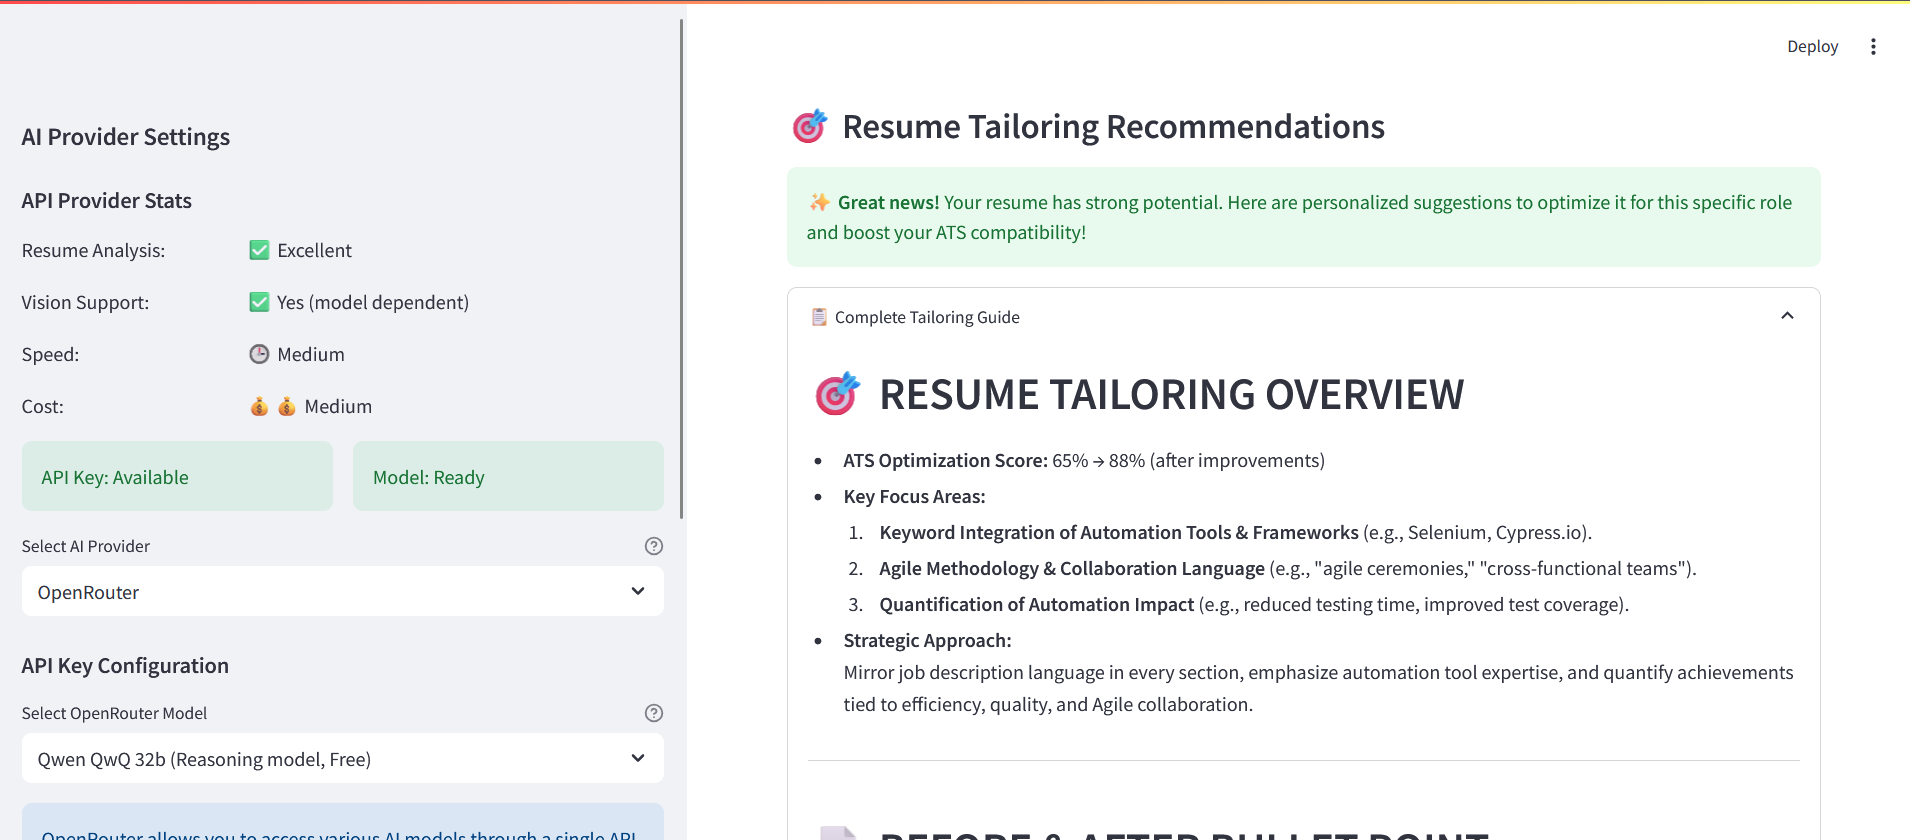
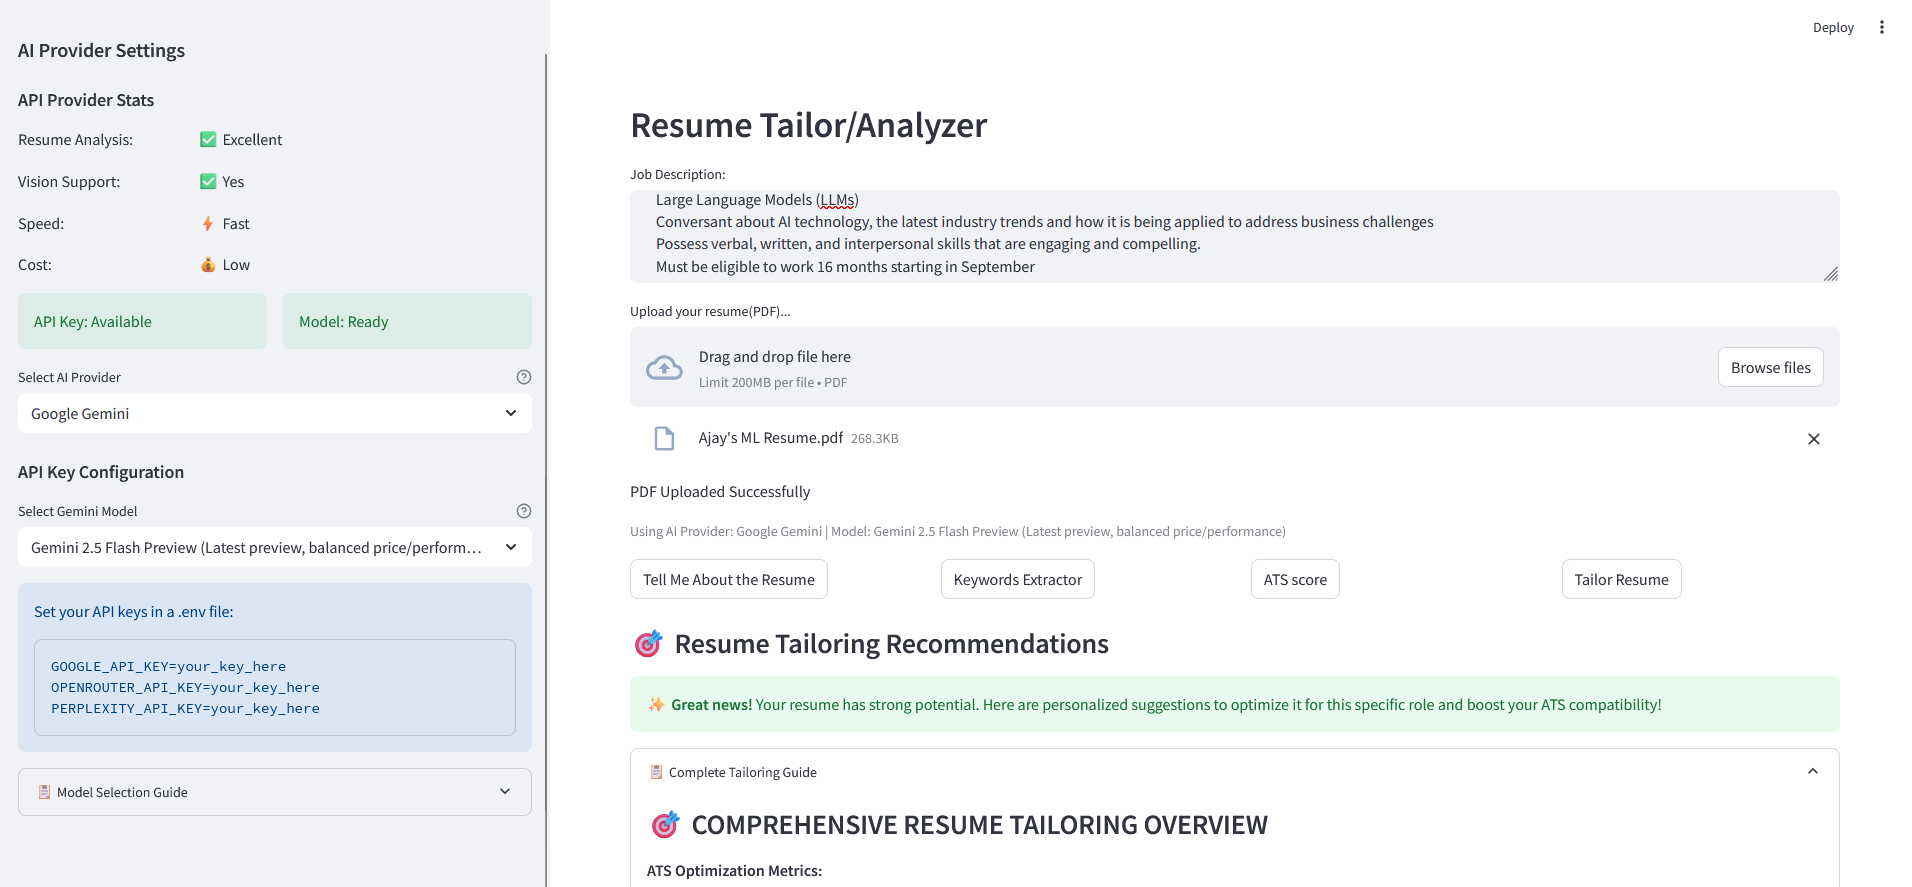
update readme.md

diff --git a/app.py b/app.py
@@ -5,12 +5,12 @@ import streamlit as st
 from models import (AIModelFactory, GeminiModel, OpenRouterModel,
                     PerplexityModel)
 from prompts.prompts import (EXECUTIVE_SUMMARY_PROMPT,
-                             KEYWORDS_ANALYSIS_PROMPT, MATCH_PERCENTAGE_PROMPT,
-                             TAILOR_RESUME_PROMPT)
+                            KEYWORDS_ANALYSIS_PROMPT, MATCH_PERCENTAGE_PROMPT,
+                            TAILOR_RESUME_PROMPT)
 from providers.selection import (check_provider_availability,
-                                 get_provider_capabilities)
+                                get_provider_capabilities)
 from utils.cache import (get_ai_response, get_ai_response_keywords,
-                         get_ai_response_tailor)
+                        get_ai_response_tailor)
 from utils.pdf_utils import pdf_to_base64_images
 
 st.set_page_config(page_title="Resume Tailor/Analyzer", layout="wide")

diff --git a/README.md b/README.md
@@ -18,10 +18,13 @@ A Streamlit web application that leverages multiple AI providers to analyze resu
 - **Keyword Analysis**: Technical, analytical, and soft skills extraction with JSON output
 
 ### 🎨 **Modern User Experience**
-- **Interactive Sidebar**: Real-time provider status and model selection
+- **Interactive Sidebar**: Real-time provider status, model selection, and capability ratings
 - **Progress Indicators**: Live analysis feedback with provider-specific messaging
 - **Responsive Design**: Wide layout optimized for professional use
 - **Extensible UI**: Component-based architecture for future enhancements
+- **Enhanced Analysis Display**: Expandable sections with detailed insights
+- **Visual Match Scoring**: Color-coded metrics for quick assessment
+- **Implementation Guidance**: Step-by-step tips for resume optimization
 
 ### 🛡 **Enterprise-Grade Architecture**
 - **Factory Pattern**: Modular AI provider management
@@ -57,8 +60,7 @@ Application-Tracking-System/
 │   ├── __init__.py
 │   ├── cache.py              # Response caching system
 │   └── pdf_utils.py          # PDF processing utilities
-└── tests/                     # Test suite (optional)
-    └── __pycache__/
+
 ```
 
 ## 🚀 Installation & Setup
@@ -137,24 +139,31 @@ streamlit run app.py
 - Strengths and weaknesses analysis
 - Professional hiring recommendation
 - Interview question suggestions
+- Expandable detailed analysis view
 
-#### 2. 🎯 **Get Keywords**
-- Structured JSON output of skills extraction
+#### 2. 🎯 **Keywords Extractor**
+- Extracts all the relevant keywords from the Job description
 - Technical, analytical, and soft skills categorization
 - Missing keywords identification
 - Optimization suggestions
+- Expandable keyword analysis view
 
-#### 3. 📊 **Percentage Match**
+#### 3. 📊 **ATS Score**
 - Quantitative scoring (0-100%)
 - Weighted category analysis
 - Detailed gap assessment
 - Evidence-based recommendations
+- Visual match indicators (Strong/Potential/Conditional/Not Recommended)
+- Color-coded metrics for quick assessment
 
 #### 4. ✨ **Tailor Resume**
 - Before/after bullet point transformations
 - Strategic keyword integration
 - ATS optimization guidance
 - Implementation roadmap
+- Quick implementation tips
+- Step-by-step optimization guide
+- Quality check recommendations
 
 ## 🎛 Advanced Configuration
 
@@ -163,12 +172,17 @@ streamlit run app.py
 **For Resume Parsing & Analysis:**
 - **Best Overall**: OpenRouter with Claude 3 Opus
 - **Fastest**: Google Gemini 2.5 Flash
-- **Most Cost-Effective**: OpenRouter free models (Qwen QwQ 32b )
+- **Most Cost-Effective**: OpenRouter free models (Qwen QwQ 32b)
 - **Latest Technology**: Gemini 2.5 Pro Preview
+
+**Provider Capabilities:**
+- **Google Gemini**: Excellent analysis, Fast speed, Low cost
+- **OpenRouter**: Excellent analysis, Model-dependent vision, Medium speed/cost
+- **Perplexity**: Good analysis, Limited vision, Medium speed, Low cost
 
 **For Different Use Cases:**
 - **Technical Resumes**: Models with strong coding analysis (GPT-4o, Claude 3)
-- **Executive Positions**: Advanced reasoning models (Claude 3 Opus, Gemini 2.5 Pro)
+- **Executive Positions**: Advanced reasoning models (Claude 3 Opus, Gemini 2.5 Flash)
 - **Quick Screening**: Fast models (Gemini 2.0 Flash, Sonar)
 
 ### Performance Optimization
